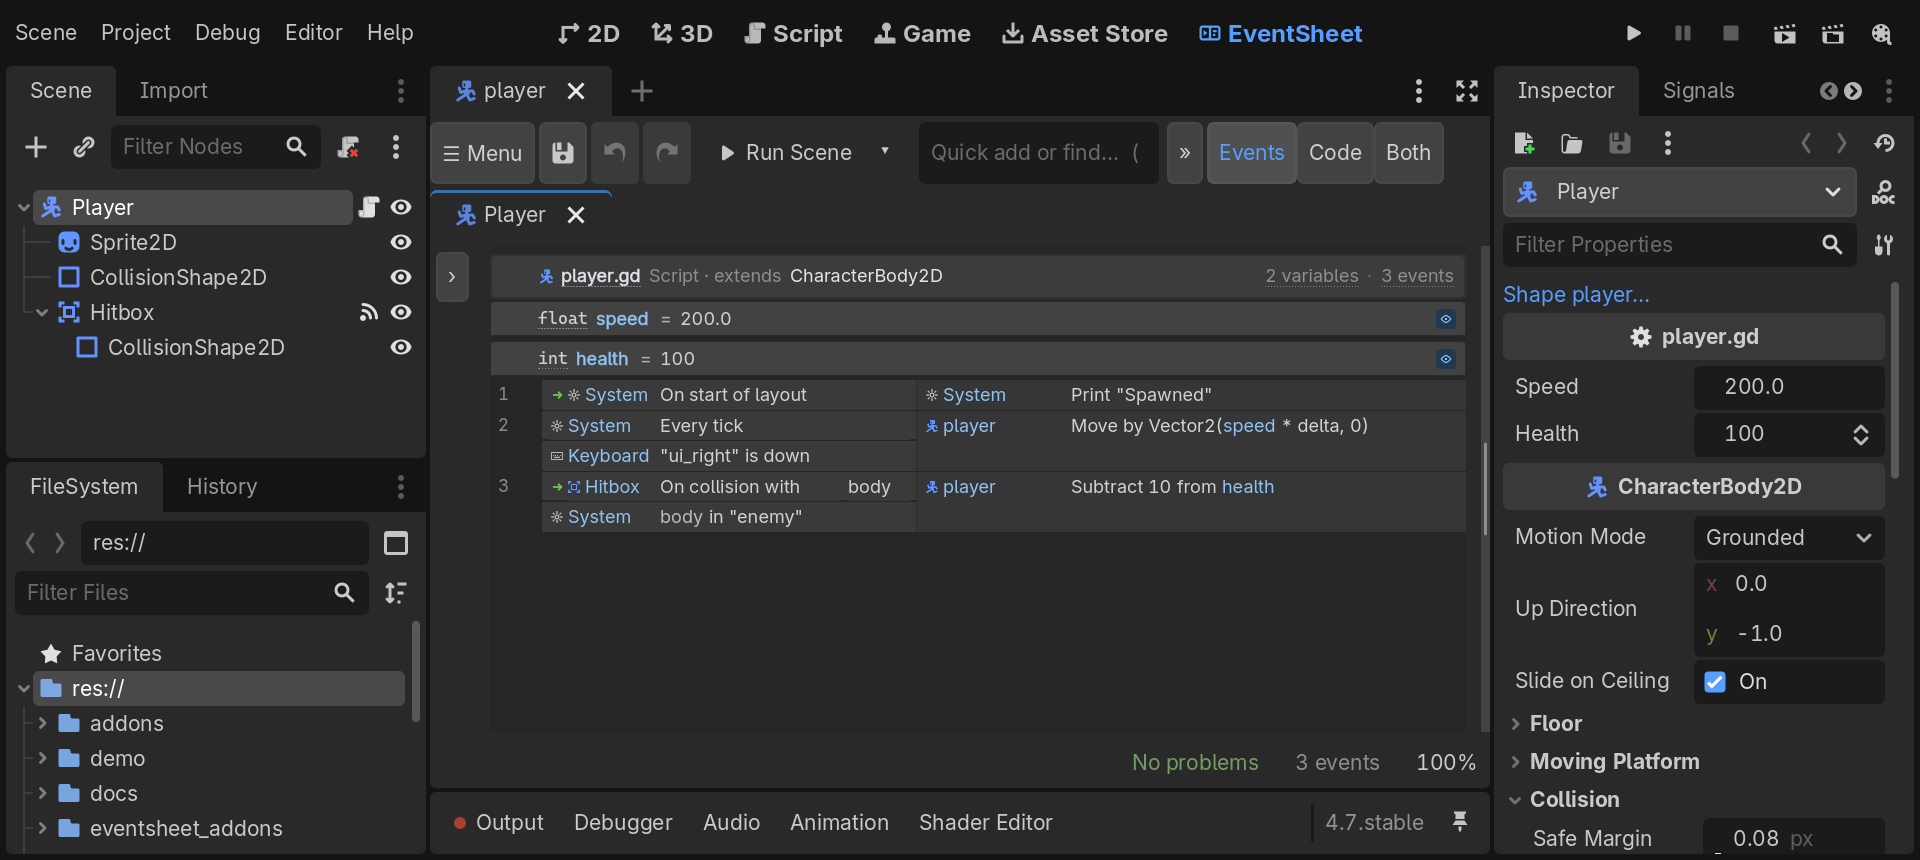
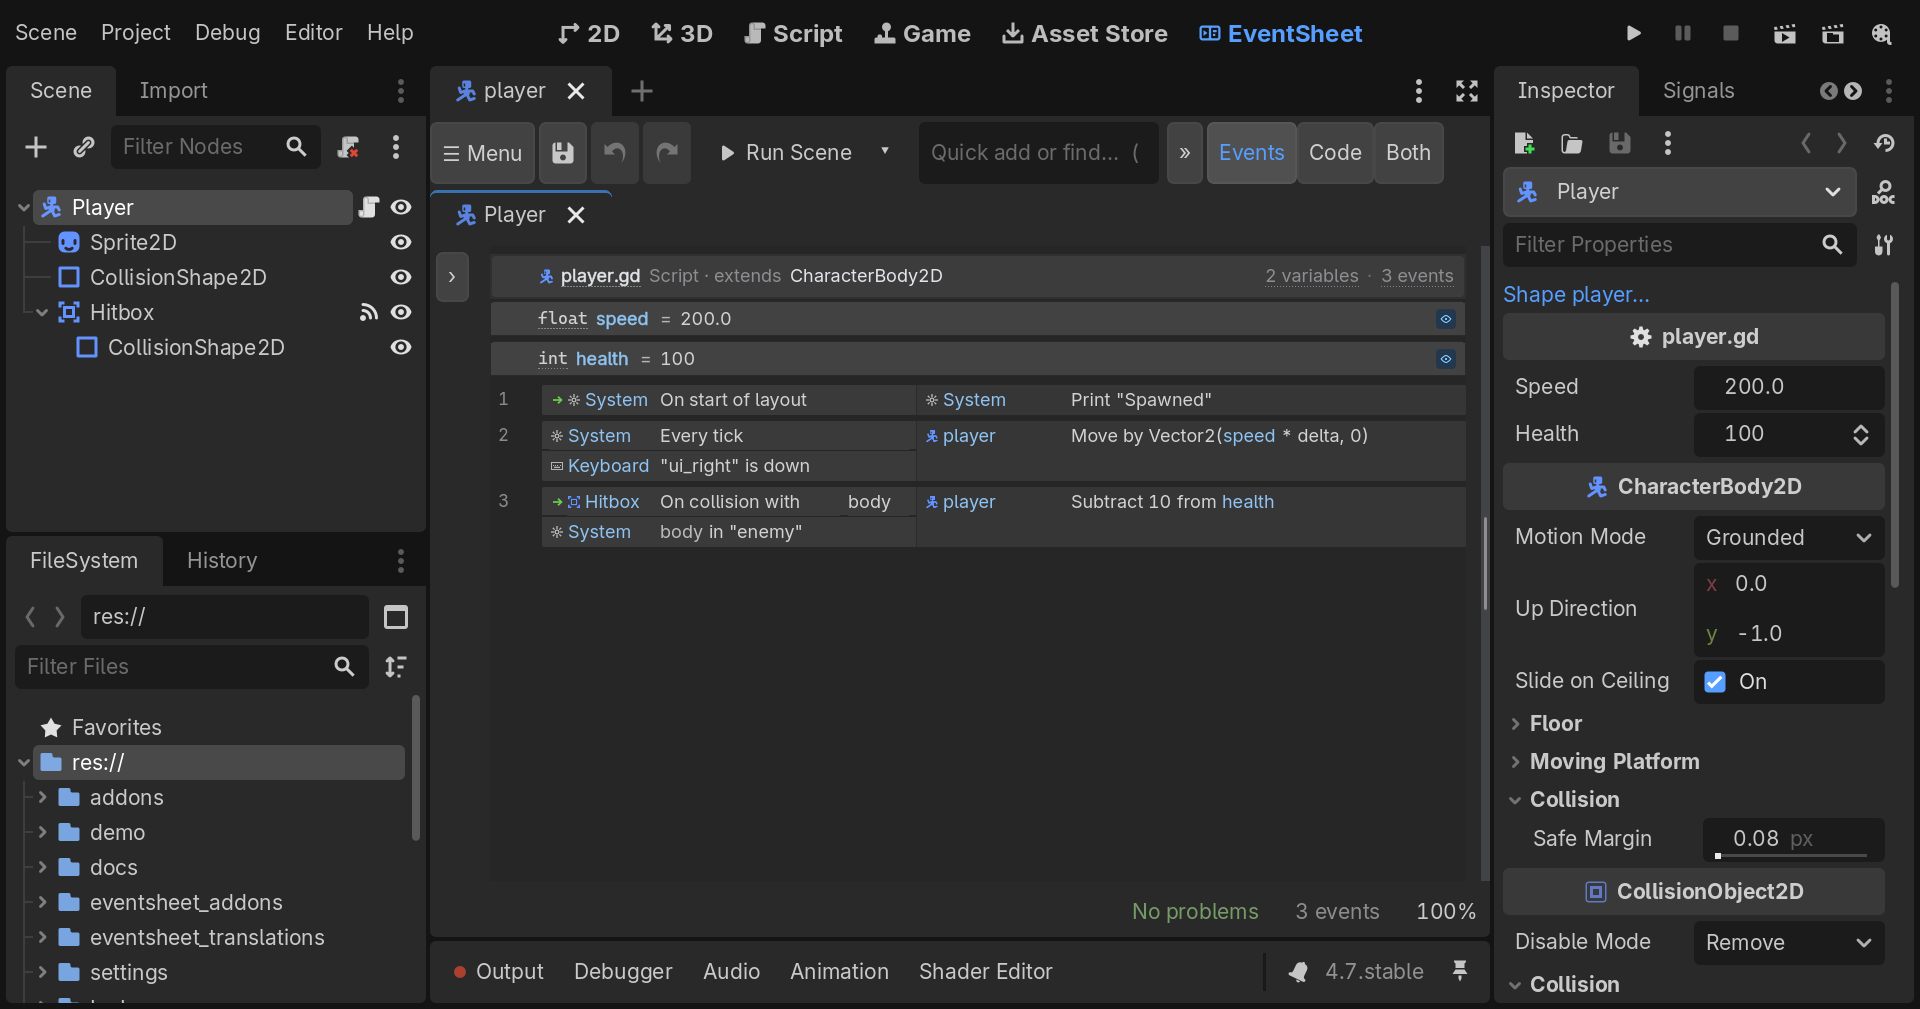
feat(themes): six pixels between events in the Editor Native look, so each event reads as its own, and the README pictures are retaken

diff --git a/CHANGELOG.md b/CHANGELOG.md
@@ -4,6 +4,10 @@ The work not yet released is listed first, under `[Unreleased]`. Each released v
 
 ## [Unreleased]
 
+### Changed: more air between events in the Editor Native look
+
+- Two events in the Editor Native look are now 6 px apart instead of 1, so each reads as its own event and not as a continuation of the one above. The conditions and actions inside one event are exactly as tight as before, and a sub-event still sits 1 px under its parent. The README pictures of the workspace and of the Generated GDScript panel were retaken to show it.
+
 ### Changed: clicking beside the sheet clears the selection
 
 - A click in the strip left of the sheet (the side panel's rail) or right of it, outside every event and variable, now clears the selection, the way a click on the empty canvas does. The sheet keeps keyboard focus, so Delete after that cannot reach the Scene tree. Ctrl and Shift clicks there change nothing.
